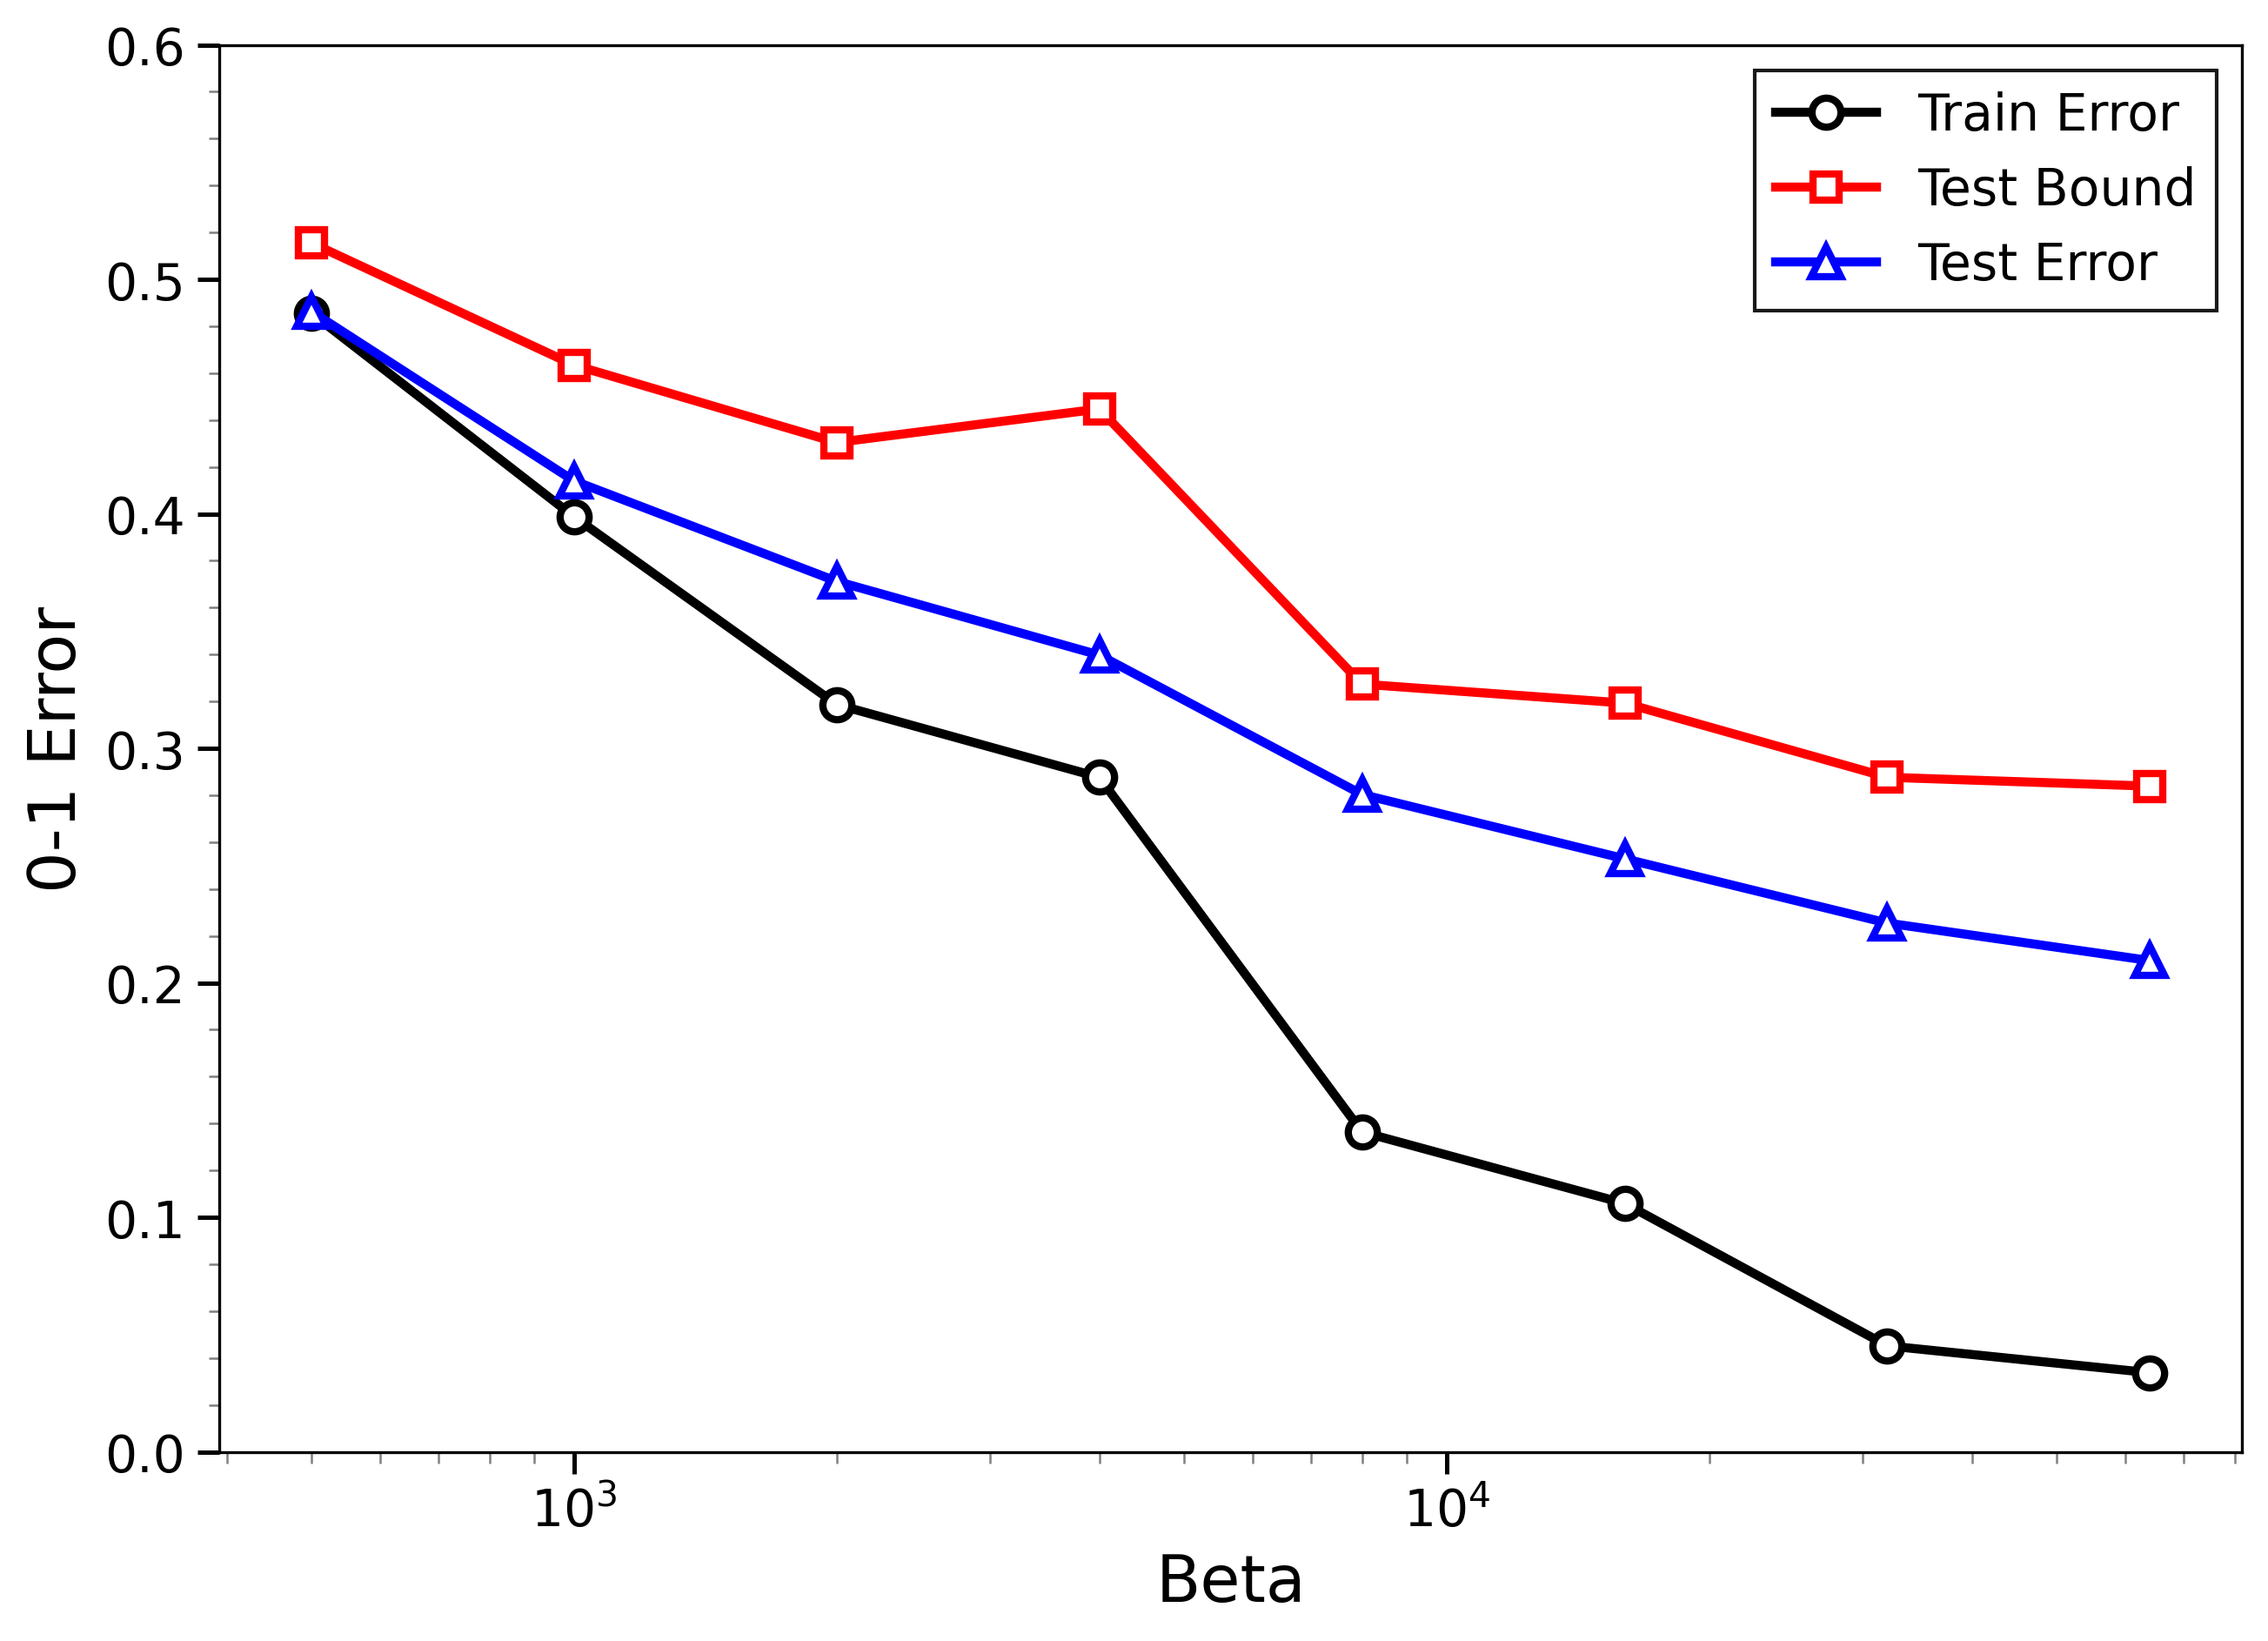
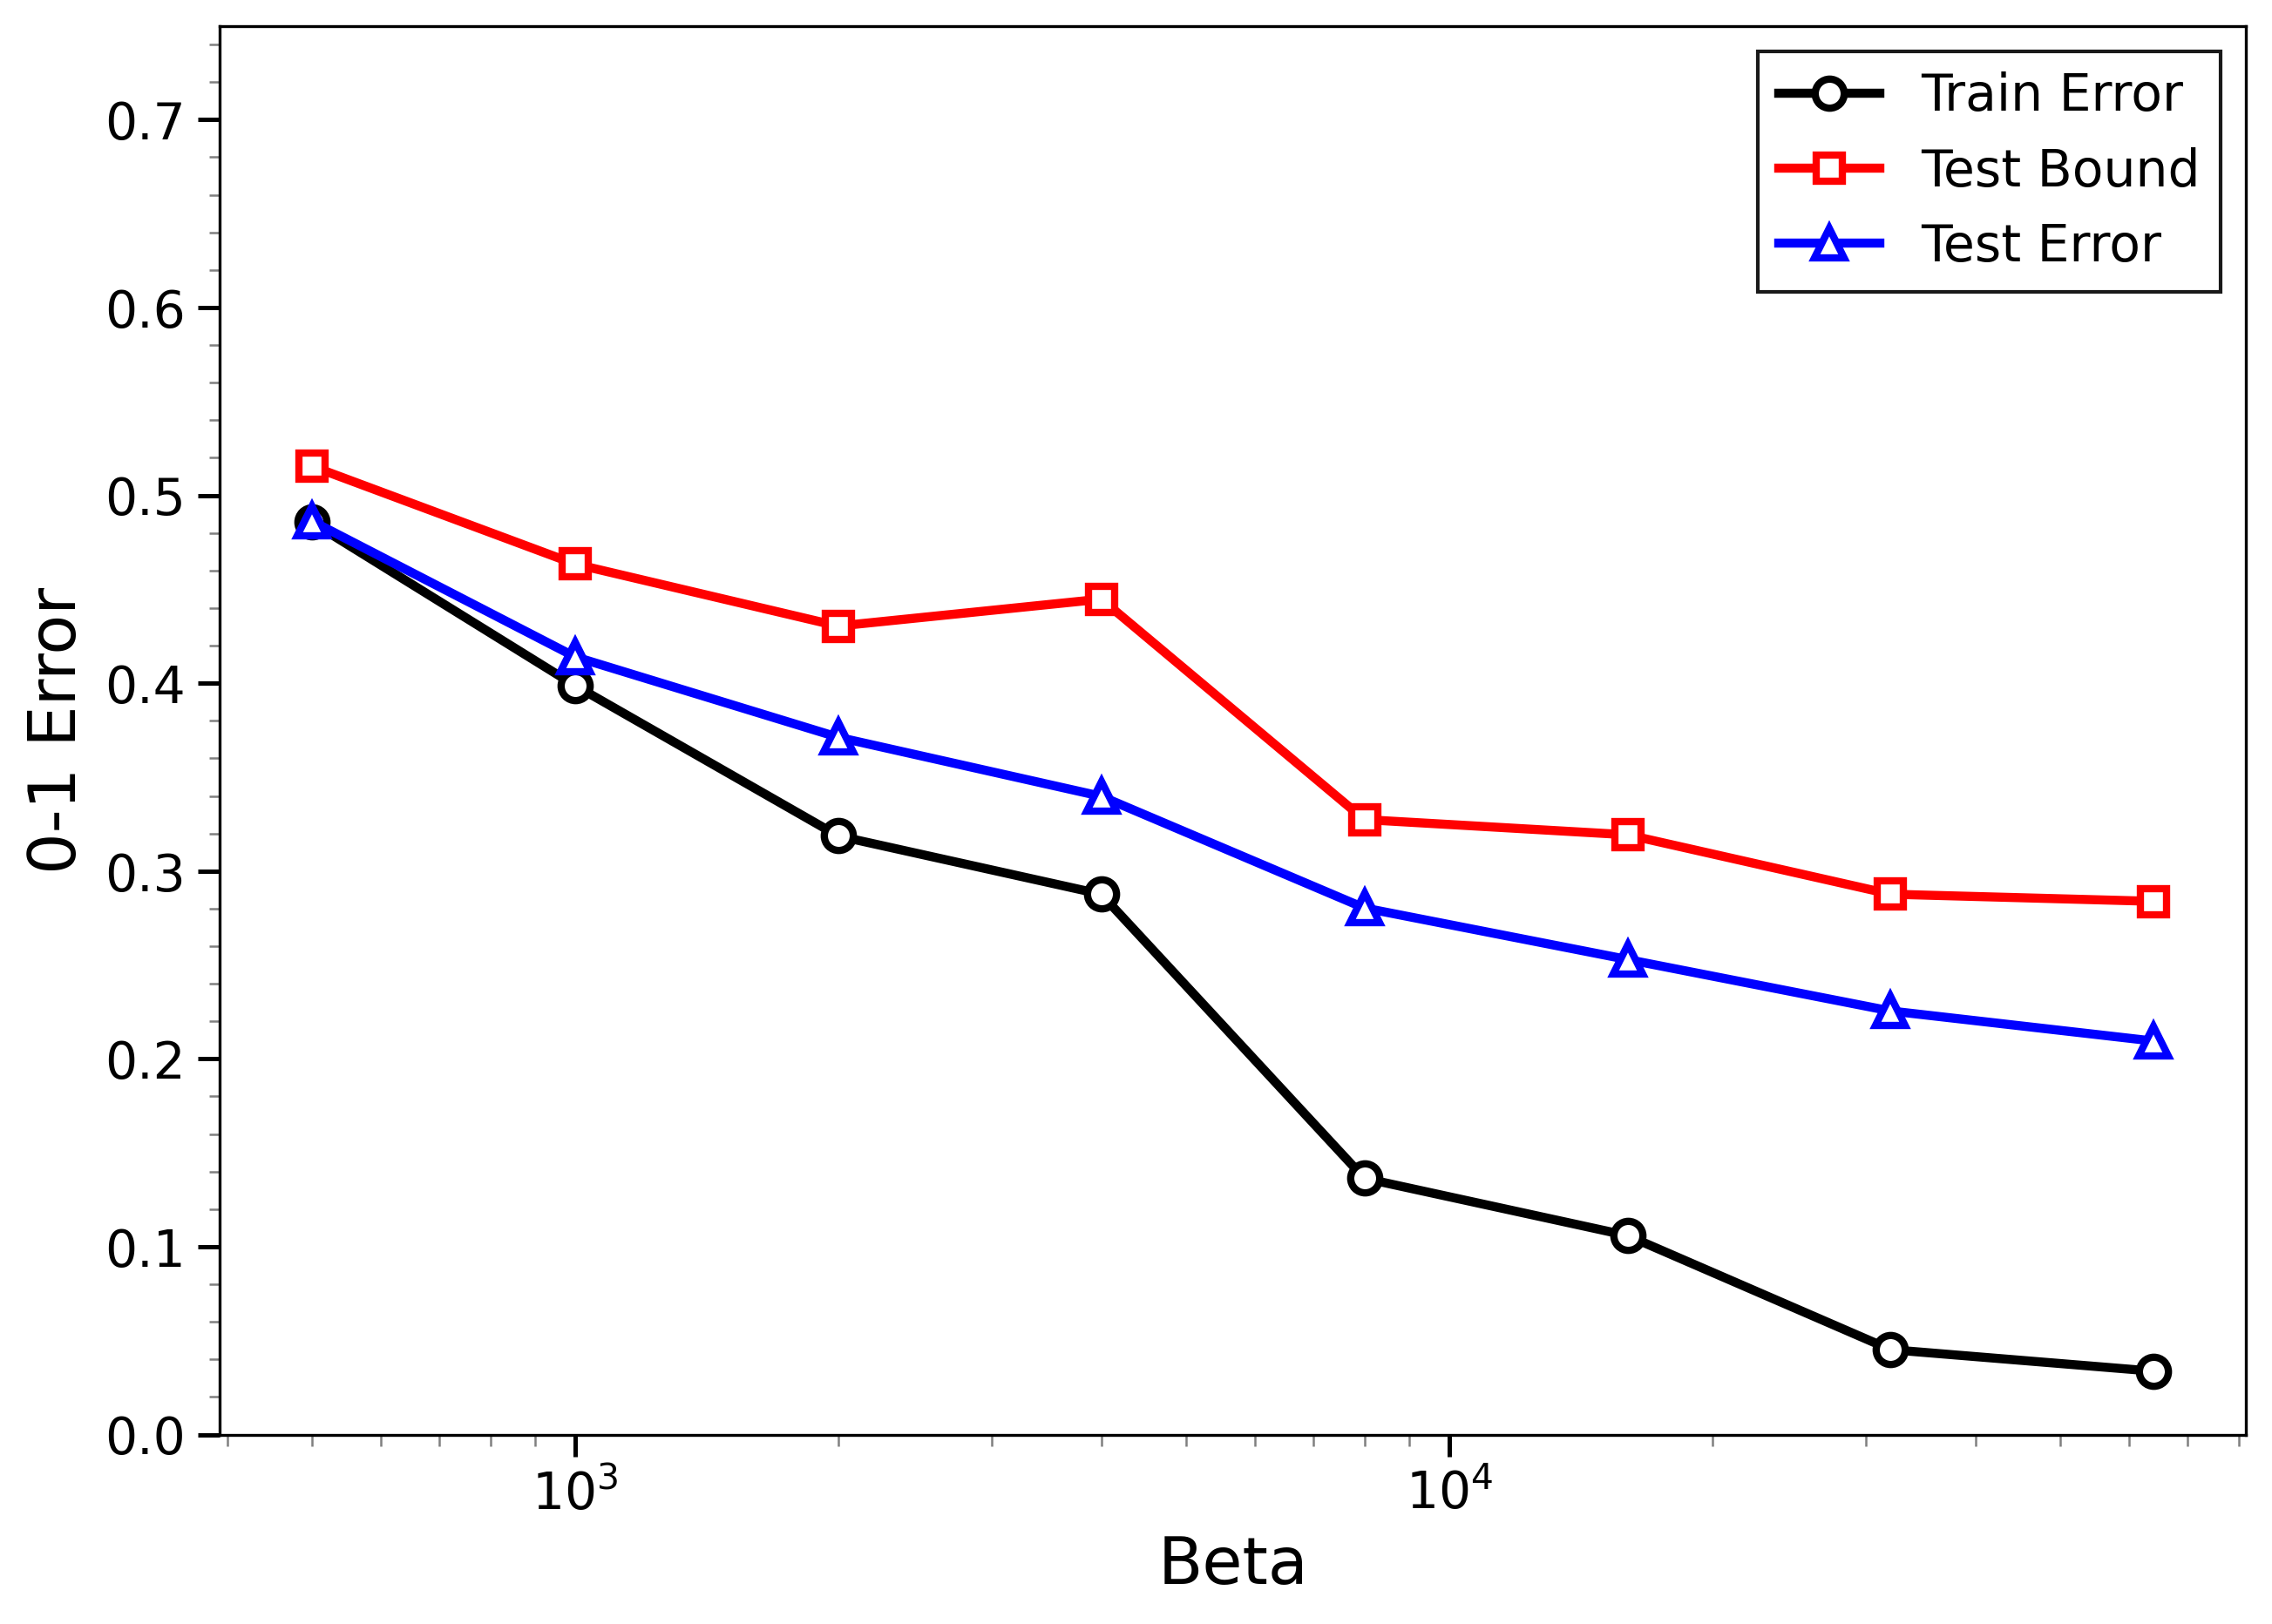
Add new CSV files for SGLD and SRL training results, update plot.py for true label display and error range

diff --git a/plot.py b/plot.py
@@ -233,7 +233,7 @@ if __name__ == "__main__":
     # CONTROL ------------------------------------------------
 
     display = 1     # 0 = BBCE, 1 = 01, 2 = area between true and random
-    trueLabels = 0    # 0 = random, 1 = true labels
+    trueLabels = 1    # 0 = random, 1 = true labels
     boundtype = 0      # 0 = kl 1 = Hoeffding 2 = Bernstein
     showkls = 0        # 0 = don't show, 1 = show
     calibration = 1    # 0 = no calibration 1 = do it
@@ -255,7 +255,8 @@ if __name__ == "__main__":
     # MNIST, 2Layers, Sgld, 2k, 0005, BBCE:MCL2W1000SGLD2kLR0005BBCE
 
     truefilename, randomfilename = "SCL3W1000SGLD8kLR0005BBCE_S12_20260329-090028.csv", "SRL3W1000SGLD8kLR0005BBCE_S12_20260329-101341.csv"
-    truefilename, randomfilename = "MCL2W1000SGLD8kLR001BBCE.csv", "MRL2W1000SGLD8kLR001BBCE_S1_20260329-054600.csv"#"MRL2W1000SGLD8kLR001BBCE.csv"
+    # truefilename, randomfilename = "MCL2W1000SGLD8kLR001BBCE.csv", "MRL2W1000SGLD8kLR001BBCE_S1_20260329-054600.csv"#"MRL2W1000SGLD8kLR001BBCE.csv"
+    # truefilename, randomfilename = "SCLVW1000SGLD8kLR0005BBCE_S12_20260331-075223.csv", "SRLVW1000SGLD8kLR0005BBCE_S12_20260331-054052.csv"
 
 
     # for calibration load random data first
@@ -430,7 +431,7 @@ if __name__ == "__main__":
         # Enhanced formatting
         ax.set_xlabel('Beta', fontsize=18)
         ax.set_ylabel('0-1 Error', fontsize=18)
-        ax.set_ylim([0, 0.6])
+        ax.set_ylim([0, 0.75])
     
         # Better legend
         ax.legend(frameon=True, fancybox=False, shadow=False, loc='best', 